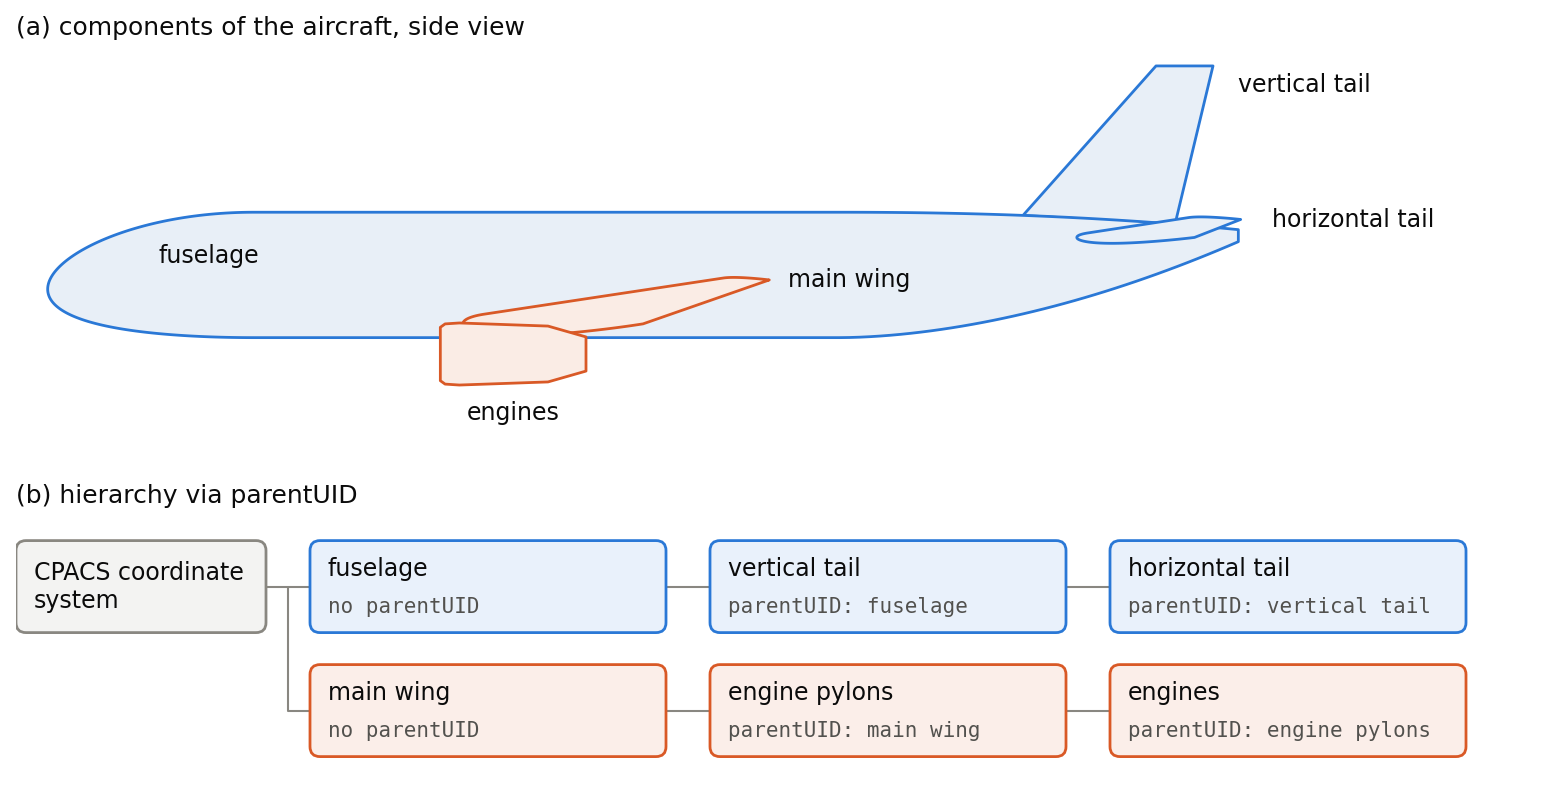
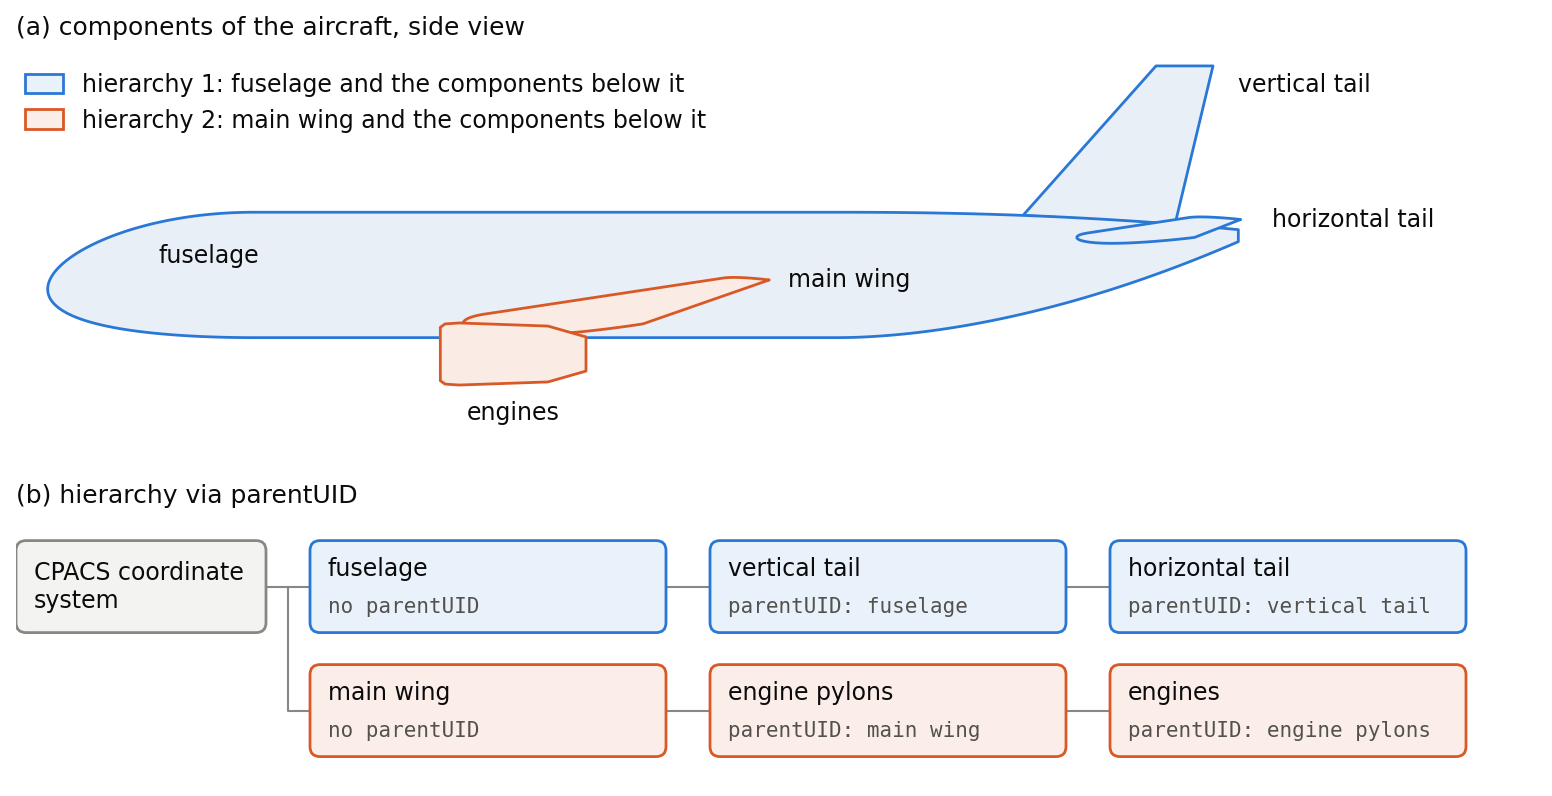
Hierarchy figure: add a key naming the two hierarchies

Changed region(s): [[0.0, 0.0905, 0.433, 0.1809]]

diff --git a/documentation/scripts/componentHierarchy.py b/documentation/scripts/componentHierarchy.py
@@ -28,7 +28,7 @@ from __future__ import annotations
 from pathlib import Path
 
 import matplotlib.pyplot as plt
-from matplotlib.patches import FancyBboxPatch, Polygon
+from matplotlib.patches import FancyBboxPatch, Patch, Polygon
 
 from aeroPerformance import (FIN, TAILPLANE, WING, fin_side, fuselage_side, lifting_surface_section,
                              lifting_surface_side, nacelle_center_z, nacelle_side, pylon_side, NACELLE)
@@ -80,6 +80,11 @@ def side_view(ax):
     name((x_tip + chord_tip + 0.6, z_tip), "main wing")
     name((sum(NACELLE["x"]) / 2, nacelle_center_z() - NACELLE["radius"] - 0.5), "engines", ha="center",
          va="top")
+    # color key: text in ink, the color shown by a swatch (one entry per hierarchy)
+    handles = [Patch(fc=(color, 0.10), ec=color, lw=LINE["secondary"]) for color, _ in CHAINS]
+    texts = [f"hierarchy {k + 1}: {chain[0][0]} and the components below it" for k, (_, chain) in enumerate(CHAINS)]
+    ax.legend(handles, texts, loc="upper left", bbox_to_anchor=(0.0, 0.96), frameon=False, fontsize=NOTE,
+              handlelength=1.6, handleheight=0.9, labelcolor=INK, borderaxespad=0.0)
     ax.set_xlim(-1.0, 47.0)
     ax.set_ylim(-5.6, 7.2)
     ax.set_aspect("equal")
